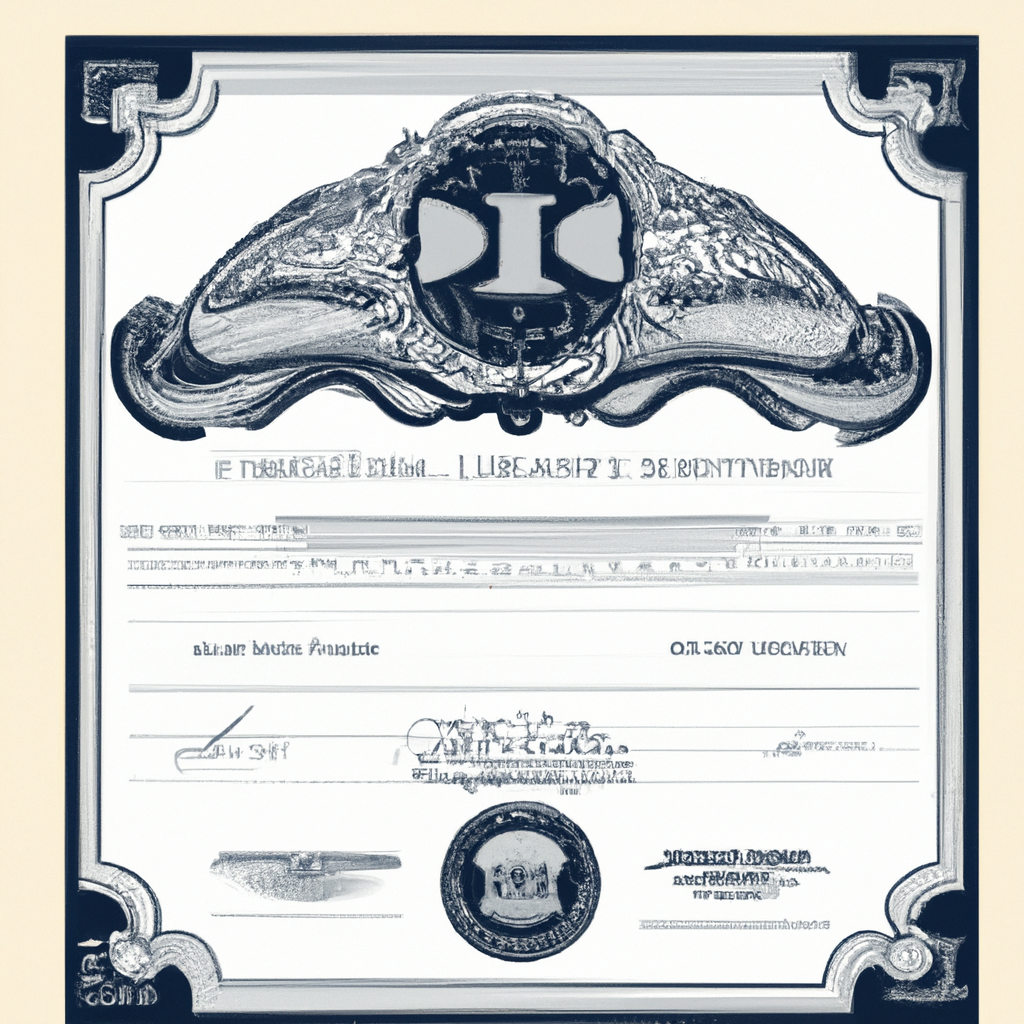
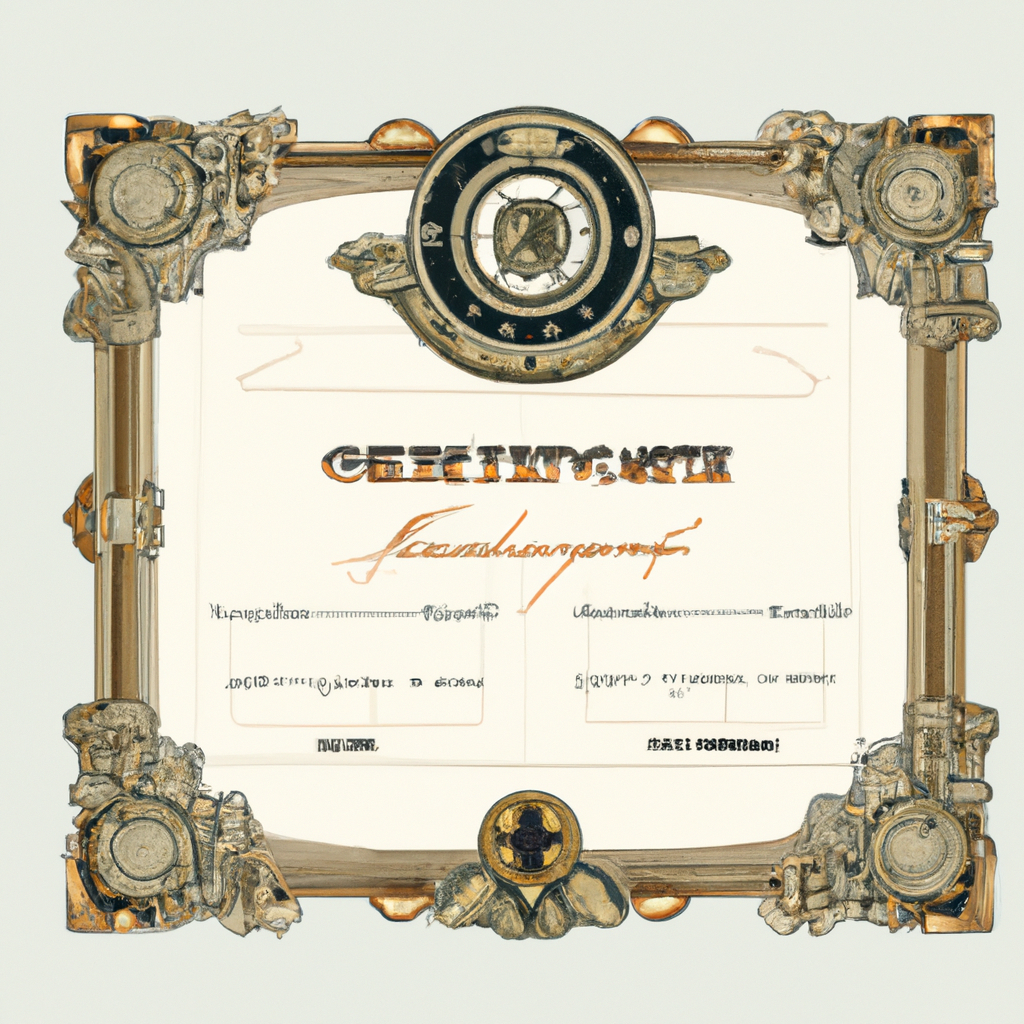
Updated variation images

diff --git a/certificate-generation/scripts/generate_certificate_background.py b/certificate-generation/scripts/generate_certificate_background.py
@@ -11,25 +11,18 @@ OpenAI.api_key = api_key
 
 # Define your prompt
 prompt = """
-You are working on a project to generate certificate templates using the DALL·E model. The goal is to create a visually appealing and customizable design that can be used for various certificate types.
+Design a certificate template which includes placeholders for the recipient's name, the date, and a logo. 
 
-Prompt:
-Design a certificate template using the DALL·E model. The template should include placeholders for the recipient's name, the date, and a logo. The placeholders should be visually distinct and easily identifiable. The overall design should be professional and elegant. Consider incorporating decorative elements, borders, and appropriate typography. Provide options for different color schemes and layout variations. The generated template should be in a high-resolution image format (e.g., PNG) suitable for printing.
-
-Specifications:
-- Placeholder for recipient's name: <<NAME>>
-- Placeholder for the date: <<DATE>>
-- Placeholder for the logo: '..assets/images/logo.png'
-- Placeholder for the Signiture: <<SIGNITURE>>
-- Visual distinctiveness: Ensure the placeholders stand out from the rest of the design.
-- Professional and elegant design: Incorporate appropriate decorative elements, borders, and typography.
-- Color schemes and layout variations: Provide options for different color schemes and layout variations to accommodate various certificate types.
-- High-resolution image format: Generate the template as a high-resolution image suitable for printing, such as PNG.
+Make sure to include the following no matter what:
+- Placeholder for recipient's name as: <<NAME>>
+- Placeholder for the date as: <<DATE>>
+- Placeholder for the logo as: ![Logo Placeholder Image](https://github.com/natybkl/AlgoCertify-dApp-NFT/blob/feature/certificate-generation/certificate-generation/assets/images/logo.png)
+- Placeholder for the Signiture as : <<SIGNITURE>>
 
 Example:
-![Certificate Template Example]('../assets/images/Certificate Template.png')
+![Certificate Template Example](https://github.com/natybkl/AlgoCertify-dApp-NFT/blob/feature/certificate-generation/certificate-generation/assets/images/Certificate%20Template.png)
 
-Please generate a certificate template based on the provided specifications. Make sure to incorporate the necessary placeholders and design elements. Feel free to be creative and provide multiple design options if possible.
+Please generate a certificate template based on the provided specifications. Browse the links provided before generating the image.
 """
 
 # Assuming you have an instance of OpenAI named 'client'
